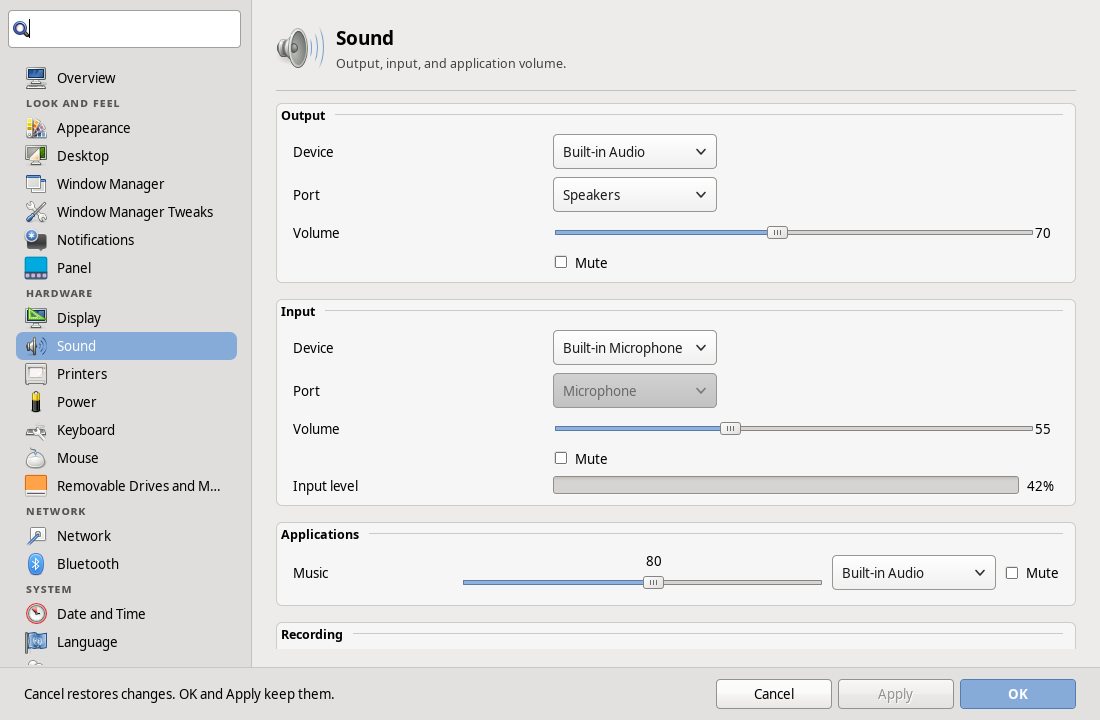
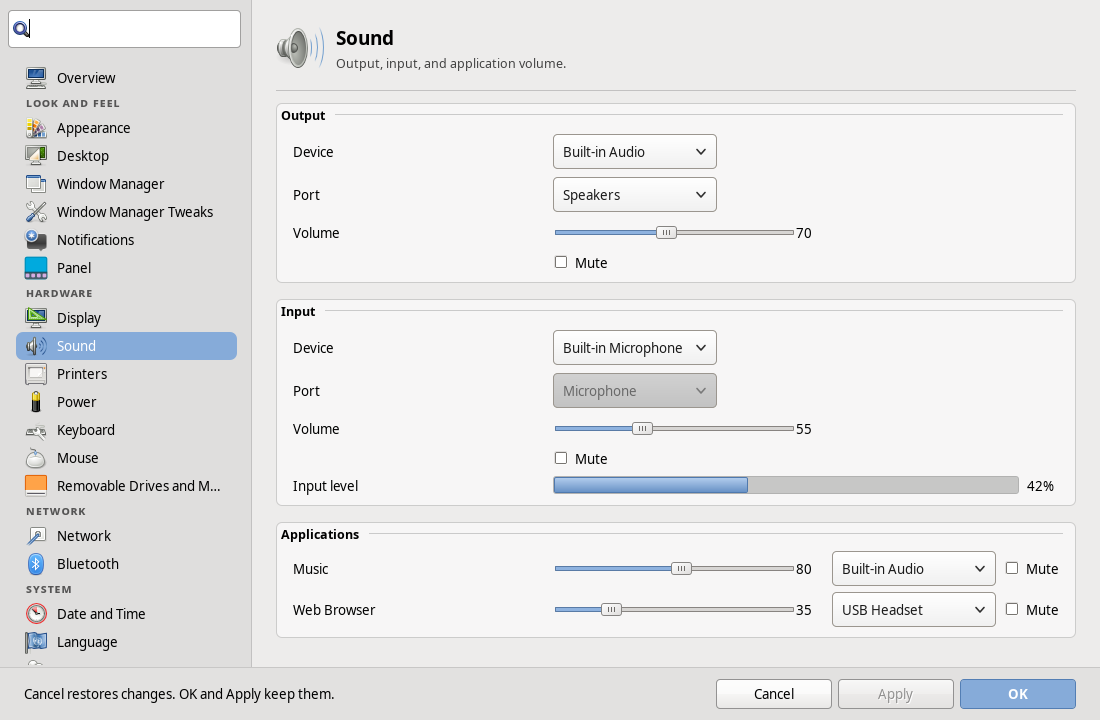
Show the input meter fill and line up application volume.
Clearlooks-Phenix draws no level-bar fill, so the meter uses an explicit
fill color. Per-app sliders share the volume column, with the value on
the right and the output device and Mute kept at the right.

diff --git a/src/pages/sound_page.cpp b/src/pages/sound_page.cpp
@@ -13,16 +13,65 @@
 #include <algorithm>
 #include <fstream>
 
+#include <gtkmm/grid.h>
 #include <gtkmm/label.h>
 #include <gtkmm/scrolledwindow.h>
 
 namespace lcos {
+namespace {
+
+// Name in the shared caption column, slider the same width as Output and
+// Input volume, value on the right. The device combo and Mute share one
+// trailing width so every stream row lines up.
+Gtk::Widget* make_stream_row(const Glib::RefPtr<Gtk::SizeGroup>& tails, const Glib::ustring& name,
+                             Gtk::Scale& scale, Gtk::ComboBoxText* device, Gtk::CheckButton& mute) {
+  configure_scale(scale);
+  guard_scroll_unless_focused(scale);
+  scale.set_valign(Gtk::ALIGN_CENTER);
+  auto* grid = Gtk::manage(new Gtk::Grid());
+  grid->set_column_spacing(12);
+  grid->set_hexpand(true);
+  auto* label = make_label(name);
+  label->set_size_request(kFormLabelWidth, -1);
+  label->set_ellipsize(Pango::ELLIPSIZE_END);
+  label->set_halign(Gtk::ALIGN_START);
+  label->set_valign(Gtk::ALIGN_CENTER);
+  label->set_xalign(0);
+  auto* tail = Gtk::manage(new Gtk::Box(Gtk::ORIENTATION_HORIZONTAL, 8));
+  tail->set_halign(Gtk::ALIGN_END);
+  tail->set_valign(Gtk::ALIGN_CENTER);
+  if (device != nullptr) {
+    device->set_valign(Gtk::ALIGN_CENTER);
+    tail->pack_start(*device, Gtk::PACK_SHRINK);
+  }
+  mute.set_valign(Gtk::ALIGN_CENTER);
+  tail->pack_end(mute, Gtk::PACK_SHRINK);
+  tails->add_widget(*tail);
+  grid->attach(*label, 0, 0, 1, 1);
+  grid->attach(scale, 1, 0, 1, 1);
+  grid->attach(*tail, 2, 0, 1, 1);
+  return grid;
+}
+
+Gtk::Widget* volume_with_tail(const Glib::RefPtr<Gtk::SizeGroup>& tails, Gtk::Scale& scale) {
+  configure_scale(scale);
+  guard_scroll_unless_focused(scale);
+  auto* line = Gtk::manage(new Gtk::Box(Gtk::ORIENTATION_HORIZONTAL, 12));
+  auto* spacer = Gtk::manage(new Gtk::Box());
+  tails->add_widget(*spacer);
+  line->pack_start(scale, Gtk::PACK_EXPAND_WIDGET);
+  line->pack_start(*spacer, Gtk::PACK_SHRINK);
+  return line;
+}
+
+}  // namespace
 
 SoundPage::SoundPage(XfconfStore& store, PulseClient& pulse)
     : store_(store),
       pulse_(pulse),
       output_volume_(Gtk::ORIENTATION_HORIZONTAL),
       input_volume_(Gtk::ORIENTATION_HORIZONTAL) {
+  stream_tail_ = Gtk::SizeGroup::create(Gtk::SIZE_GROUP_HORIZONTAL);
   auto* scroll = Gtk::manage(new Gtk::ScrolledWindow());
   prepare_page_scroll(*scroll);
   auto* page = make_vbox(4);
@@ -49,7 +98,7 @@ SoundPage::SoundPage(XfconfStore& store, PulseClient& pulse)
   FormGrid out_form;
   out_form.add("Device", output_);
   output_port_label_ = out_form.add("Port", output_port_);
-  out_form.add("Volume", output_volume_);
+  out_form.add("Volume", *volume_with_tail(stream_tail_, output_volume_));
   out_form.add_control(output_mute_);
   out->pack_start(out_form.grid(), Gtk::PACK_SHRINK);
   page->pack_start(*make_frame("Output", *out), Gtk::PACK_SHRINK);
@@ -58,13 +107,16 @@ SoundPage::SoundPage(XfconfStore& store, PulseClient& pulse)
   FormGrid in_form;
   in_form.add("Device", input_);
   input_port_label_ = in_form.add("Port", input_port_);
-  in_form.add("Volume", input_volume_);
+  in_form.add("Volume", *volume_with_tail(stream_tail_, input_volume_));
   in_form.add_control(input_mute_);
   input_meter_.set_mode(Gtk::LEVEL_BAR_MODE_CONTINUOUS);
   input_meter_.set_min_value(0);
   input_meter_.set_max_value(1);
   input_meter_.set_value(0);
   input_meter_.set_hexpand(true);
+  input_meter_.set_valign(Gtk::ALIGN_CENTER);
+  input_meter_.set_size_request(-1, 16);
+  input_meter_.get_style_context()->add_class("lcos-meter");
   meter_value_ = make_label("0%");
   meter_value_->set_width_chars(4);
   auto* meter_row = Gtk::manage(new Gtk::Box(Gtk::ORIENTATION_HORIZONTAL, 8));
@@ -1037,19 +1089,15 @@ void SoundPage::update_apps() {
     auto found = app_rows_.find(input.index);
     if (found == app_rows_.end()) {
       AppRow row;
-      row.row = Gtk::manage(new Gtk::Box(Gtk::ORIENTATION_HORIZONTAL, 8));
-      auto* name = make_label(input.application);
-      name->set_size_request(160, -1);
-      name->set_ellipsize(Pango::ELLIPSIZE_END);
       row.scale = Gtk::manage(new Gtk::Scale(Gtk::ORIENTATION_HORIZONTAL));
       row.scale->set_range(0, 150);
       row.scale->set_digits(0);
       row.scale->set_value(input.volume_percent);
-      row.scale->set_hexpand(true);
       row.mute = Gtk::manage(new Gtk::CheckButton("Mute"));
       row.mute->set_active(input.mute);
       row.device = Gtk::manage(new Gtk::ComboBoxText());
       cap_combo_width(*row.device);
+      row.row = make_stream_row(stream_tail_, input.application, *row.scale, row.device, *row.mute);
       const std::uint32_t index = input.index;
       row.scale->signal_value_changed().connect([this, index] {
         if (freeze_ > 0) {
@@ -1100,10 +1148,6 @@ void SoundPage::update_apps() {
         refresh();
         return false;
       });
-      row.row->pack_start(*name, Gtk::PACK_SHRINK);
-      row.row->pack_start(*row.scale, Gtk::PACK_EXPAND_WIDGET);
-      row.row->pack_start(*row.device, Gtk::PACK_SHRINK);
-      row.row->pack_start(*row.mute, Gtk::PACK_SHRINK);
       apps_->pack_start(*row.row, Gtk::PACK_SHRINK);
       app_rows_.emplace(index, row);
     } else if (!found->second.dragging) {
@@ -1178,17 +1222,13 @@ void SoundPage::update_captures() {
     auto found = capture_rows_.find(capture.index);
     if (found == capture_rows_.end()) {
       AppRow row;
-      row.row = Gtk::manage(new Gtk::Box(Gtk::ORIENTATION_HORIZONTAL, 8));
-      auto* name = make_label(capture.application);
-      name->set_size_request(160, -1);
-      name->set_ellipsize(Pango::ELLIPSIZE_END);
       row.scale = Gtk::manage(new Gtk::Scale(Gtk::ORIENTATION_HORIZONTAL));
       row.scale->set_range(0, 150);
       row.scale->set_digits(0);
       row.scale->set_value(capture.volume_percent);
-      row.scale->set_hexpand(true);
       row.mute = Gtk::manage(new Gtk::CheckButton("Mute"));
       row.mute->set_active(capture.mute);
+      row.row = make_stream_row(stream_tail_, capture.application, *row.scale, nullptr, *row.mute);
       const std::uint32_t index = capture.index;
       row.scale->signal_value_changed().connect([this, index] {
         if (freeze_ > 0) {
@@ -1227,9 +1267,6 @@ void SoundPage::update_captures() {
         refresh();
         return false;
       });
-      row.row->pack_start(*name, Gtk::PACK_SHRINK);
-      row.row->pack_start(*row.scale, Gtk::PACK_EXPAND_WIDGET);
-      row.row->pack_start(*row.mute, Gtk::PACK_SHRINK);
       recording_->pack_start(*row.row, Gtk::PACK_SHRINK);
       capture_rows_.emplace(index, row);
     } else if (!found->second.dragging) {
@@ -1296,41 +1333,32 @@ void SoundPage::show_sample() {
     apps_->remove(*child);
   }
   app_rows_.clear();
-  auto* playback = Gtk::manage(new Gtk::Box(Gtk::ORIENTATION_HORIZONTAL, 8));
-  auto* playback_name = make_label("Music");
-  playback_name->set_size_request(160, -1);
-  auto* playback_scale = Gtk::manage(new Gtk::Scale(Gtk::ORIENTATION_HORIZONTAL));
-  playback_scale->set_range(0, 150);
-  playback_scale->set_digits(0);
-  playback_scale->set_value(80);
-  playback_scale->set_hexpand(true);
-  auto* playback_device = Gtk::manage(new Gtk::ComboBoxText());
-  playback_device->append("alsa_output.built_in", "Built-in Audio");
-  playback_device->append("alsa_output.headset", "USB Headset");
-  playback_device->set_active(0);
-  cap_combo_width(*playback_device);
-  playback->pack_start(*playback_name, Gtk::PACK_SHRINK);
-  playback->pack_start(*playback_scale, Gtk::PACK_EXPAND_WIDGET);
-  playback->pack_start(*playback_device, Gtk::PACK_SHRINK);
-  playback->pack_start(*Gtk::manage(new Gtk::CheckButton("Mute")), Gtk::PACK_SHRINK);
-  apps_->pack_start(*playback, Gtk::PACK_SHRINK);
+  const char* apps[][3] = {{"Music", "80", "0"}, {"Web Browser", "35", "1"}};
+  for (const auto& app : apps) {
+    auto* scale = Gtk::manage(new Gtk::Scale(Gtk::ORIENTATION_HORIZONTAL));
+    scale->set_range(0, 150);
+    scale->set_digits(0);
+    scale->set_value(std::stod(app[1]));
+    auto* device = Gtk::manage(new Gtk::ComboBoxText());
+    device->append("alsa_output.built_in", "Built-in Audio");
+    device->append("alsa_output.headset", "USB Headset");
+    device->set_active(std::stoi(app[2]));
+    cap_combo_width(*device);
+    auto* mute = Gtk::manage(new Gtk::CheckButton("Mute"));
+    apps_->pack_start(*make_stream_row(stream_tail_, app[0], *scale, device, *mute), Gtk::PACK_SHRINK);
+  }
   apps_->show_all();
   for (auto* child : recording_->get_children()) {
     recording_->remove(*child);
   }
   capture_rows_.clear();
-  auto* record = Gtk::manage(new Gtk::Box(Gtk::ORIENTATION_HORIZONTAL, 8));
-  auto* record_name = make_label("Voice");
-  record_name->set_size_request(160, -1);
   auto* record_scale = Gtk::manage(new Gtk::Scale(Gtk::ORIENTATION_HORIZONTAL));
   record_scale->set_range(0, 150);
   record_scale->set_digits(0);
   record_scale->set_value(60);
-  record_scale->set_hexpand(true);
-  record->pack_start(*record_name, Gtk::PACK_SHRINK);
-  record->pack_start(*record_scale, Gtk::PACK_EXPAND_WIDGET);
-  record->pack_start(*Gtk::manage(new Gtk::CheckButton("Mute")), Gtk::PACK_SHRINK);
-  recording_->pack_start(*record, Gtk::PACK_SHRINK);
+  auto* record_mute = Gtk::manage(new Gtk::CheckButton("Mute"));
+  recording_->pack_start(*make_stream_row(stream_tail_, "Voice", *record_scale, nullptr, *record_mute),
+                         Gtk::PACK_SHRINK);
   recording_->show_all();
 }
 

diff --git a/src/application.cpp b/src/application.cpp
@@ -64,6 +64,30 @@ void install_css() {
       "label.lcos-badge-busy { color: #1d4f86; }"
       "label.lcos-badge-paused { color: #8a5a12; }"
       "box.lcos-actions { margin-top: 8px; }"
+      "levelbar.lcos-meter trough {"
+      "  min-height: 16px;"
+      "  background-color: mix(@theme_bg_color, @theme_fg_color, 0.16);"
+      "  background-image: none;"
+      "  border: 1px solid alpha(@theme_fg_color, 0.28);"
+      "  border-radius: 3px;"
+      "}"
+      "levelbar.lcos-meter block.empty {"
+      "  background-color: transparent;"
+      "  background-image: none;"
+      "  border: none;"
+      "}"
+      "levelbar.lcos-meter block.filled,"
+      "levelbar.lcos-meter block.filled.low,"
+      "levelbar.lcos-meter block.filled.high,"
+      "levelbar.lcos-meter block.filled.full {"
+      "  background-color: @theme_selected_bg_color;"
+      "  background-image: linear-gradient(to bottom,"
+      "      shade(@theme_selected_bg_color, 1.18),"
+      "      shade(@theme_selected_bg_color, 0.86));"
+      "  border: 1px solid shade(@theme_selected_bg_color, 0.72);"
+      "  border-radius: 2px;"
+      "  min-height: 12px;"
+      "}"
       "button.lcos-tile { min-height: 64px; padding: 4px 4px 2px; }"
       "box.lcos-card { padding: 10px 16px 8px 12px; }");
   Gtk::StyleContext::add_provider_for_screen(screen, extra,

diff --git a/src/pages/sound_page.hpp b/src/pages/sound_page.hpp
@@ -13,6 +13,8 @@
 #include <gtkmm/comboboxtext.h>
 #include <gtkmm/levelbar.h>
 #include <gtkmm/scale.h>
+#include <gtkmm/sizegroup.h>
+#include <gtkmm/widget.h>
 
 #include <cstdint>
 #include <map>
@@ -59,7 +61,7 @@ class SoundPage : public SettingsPage {
     std::string port;
   };
   struct AppRow {
-    Gtk::Box* row = nullptr;
+    Gtk::Widget* row = nullptr;
     Gtk::Scale* scale = nullptr;
     Gtk::CheckButton* mute = nullptr;
     Gtk::ComboBoxText* device = nullptr;
@@ -134,6 +136,7 @@ class SoundPage : public SettingsPage {
   Gtk::Scale input_volume_;
   Gtk::CheckButton input_mute_;
   Gtk::ComboBoxText profile_;
+  Glib::RefPtr<Gtk::SizeGroup> stream_tail_;
   Gtk::Box* apps_ = nullptr;
   Gtk::Box* recording_ = nullptr;
   Gtk::LevelBar input_meter_;
